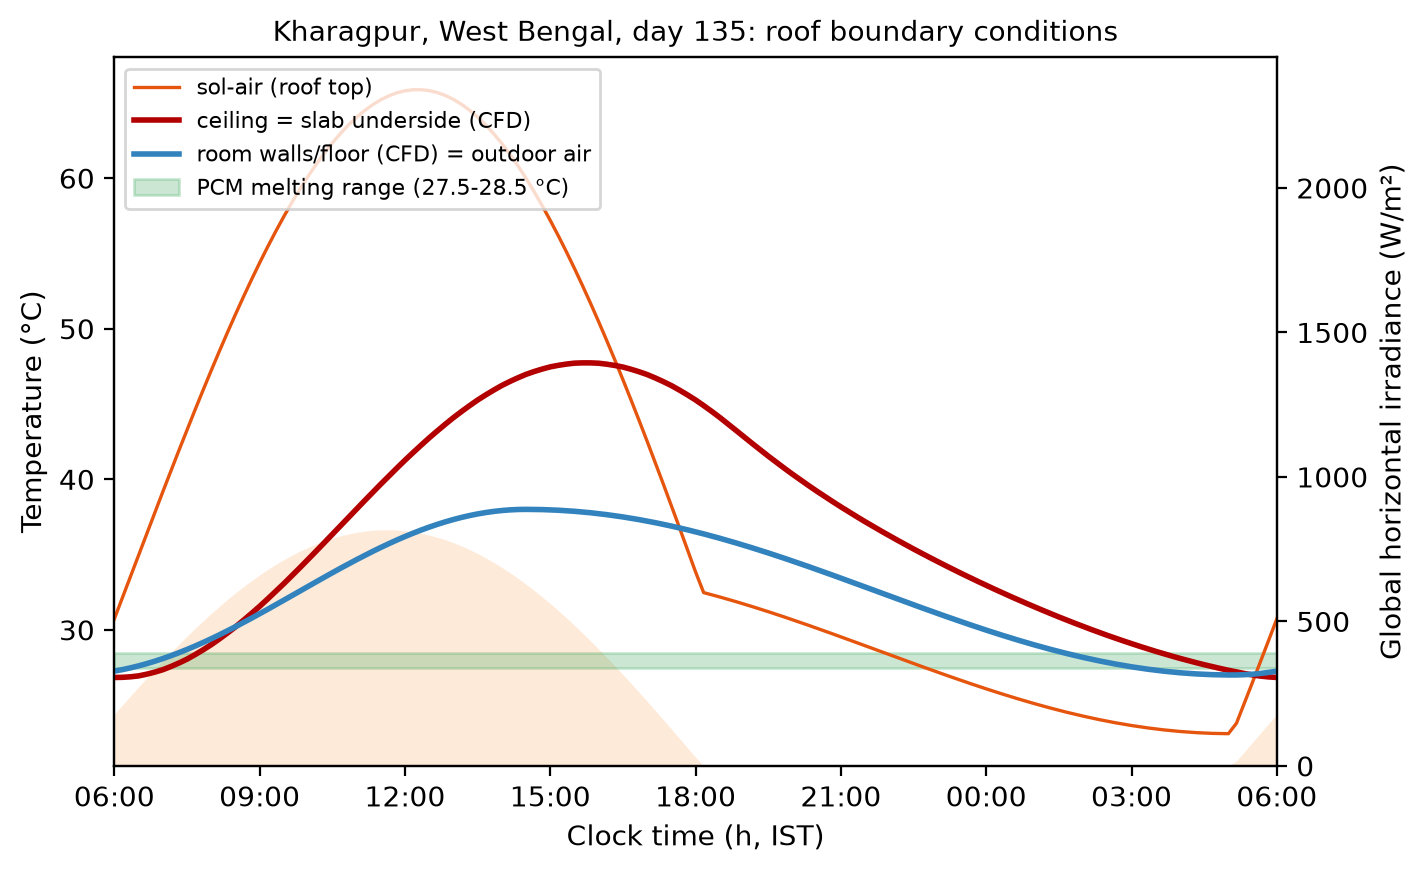
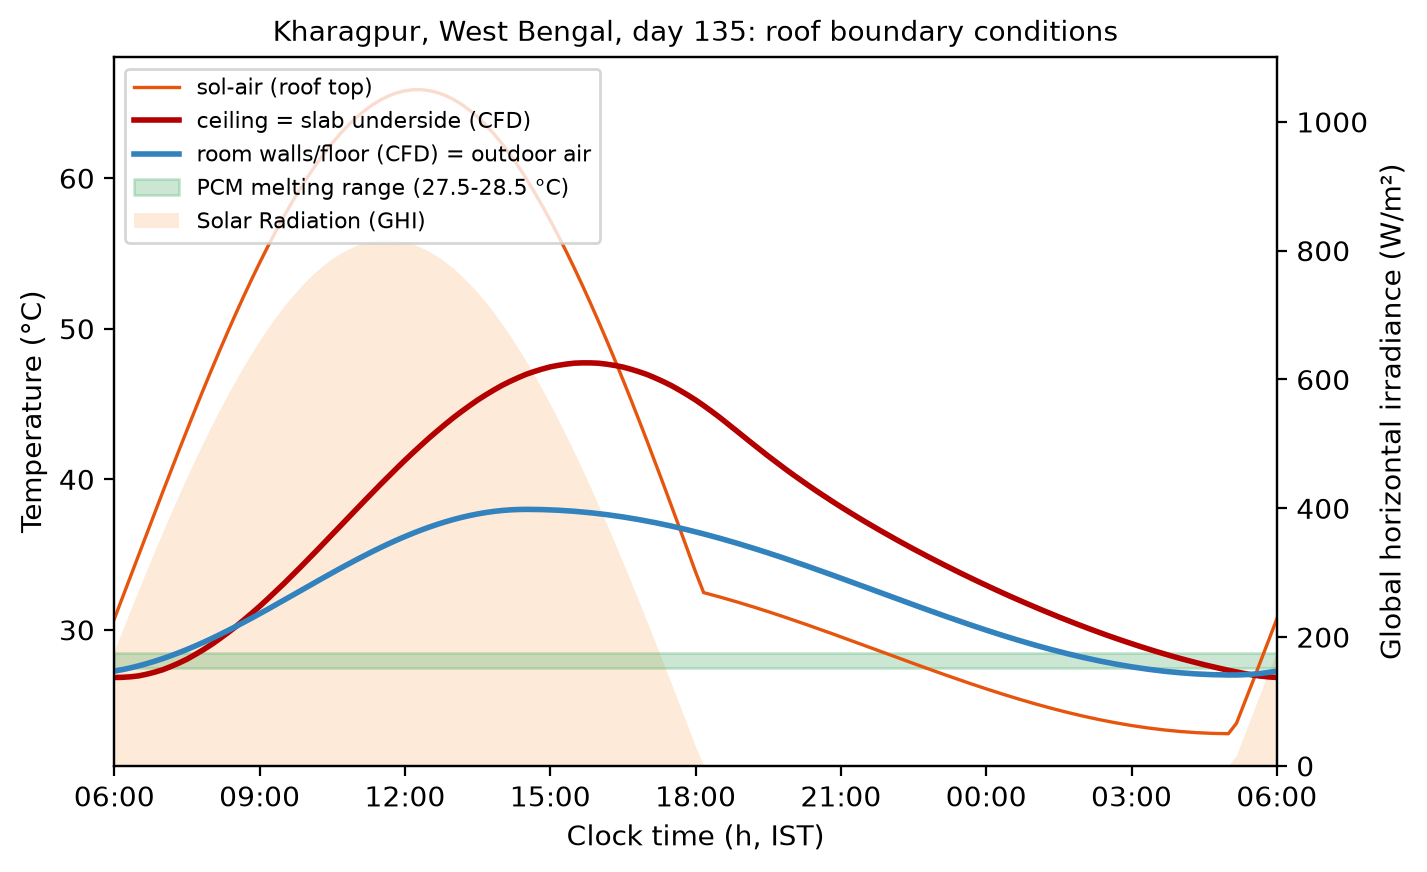
plots: GHI axis to 1100 W/m2 with a legend entry; hemisphere in the paper comparison
- loads: the irradiance axis tops out at 1100 W/m2 (extended only if a day's GHI exceeds
  it) instead of 3x the peak, and the GHI fill is labelled "Solar Radiation (GHI)" in the
  shared legend.
- paper comparison: shapes without a paper value (the hemisphere) are plotted with the
  same markers, marked "no paper value" instead of a band and % error; x axis at least
  650 min so the hemisphere's 614 min fits.
- docs/figures: both figures regenerated.

diff --git a/post/plot_results.py b/post/plot_results.py
@@ -264,32 +264,41 @@ def write_curves(rows, outdir):
 
 def fig_paper_comparison(rows, outdir):
     """t80/t100 of the paper set-up (dT = 20 K, no loads) against Sec. 4.1, with the
-    +-10 % band of validation gate 1."""
+    +-10 % band of validation gate 1. A shape the paper did not study (the hemisphere)
+    gets its own markers only, marked "no paper value"."""
     pairs = []
     for r in rows:
-        ref = REF["melting_time_min"].get(r["shape"])
-        if ref is None or r.get("loads") or r.get("delta_T") != 20:
+        if r.get("loads") or r.get("delta_T") != 20:
             continue
+        ref = REF["melting_time_min"].get(r["shape"])
         for key, frac in (("t80", "80 %"), ("t100", "100 %")):
             if r.get(f"{key}_min"):
-                pairs.append((f"{r['shape'].capitalize()}, {frac}", ref[key],
+                pairs.append((f"{r['shape'].capitalize()}, {frac}", ref[key] if ref else None,
                               r[f"{key}_min"], COLOR[r["shape"]]))
-    if not pairs:
+    if not any(p[1] for p in pairs):
         return
     fig, ax = plt.subplots(figsize=(6.4, 0.55 * len(pairs) + 1.3))
+    first = True
     for i, (label, paper, ours, c) in enumerate(pairs):
         y = len(pairs) - 1 - i
+        if paper is None:
+            ax.plot(ours, y, "o", ms=8, color=c, mec="white", mew=1.0)
+            ax.text(ours - 14, y, "no paper value", va="center", ha="right", fontsize=9,
+                    color="#5f6b7a")
+            continue
         ax.fill_betweenx([y - 0.3, y + 0.3], 0.9 * paper, 1.1 * paper, color="#d9d9d9", lw=0,
-                         label="paper ± 10 %" if i == 0 else None)
+                         label="paper ± 10 %" if first else None)
         ax.plot([paper, ours], [y, y], color=c, lw=1.2)
         ax.plot(paper, y, "o", ms=8, mfc="white", mec="k", mew=1.2,
-                label="Yang et al. 2023" if i == 0 else None)
+                label="Yang et al. 2023" if first else None)
         ax.plot(ours, y, "o", ms=8, color=c, mec="white", mew=1.0)
         ax.text(max(paper, ours) * 1.02 + 4, y,
                 f"{100 * (ours / paper - 1):+.1f} %".replace("-", "−"), va="center", fontsize=9)
+        first = False
     ax.set_yticks(range(len(pairs)), [p[0] for p in reversed(pairs)])
     ax.set_xlabel("Time to 80 % / 100 % liquid (min)")
-    ax.set_xlim(0, max(max(p[1:3]) for p in pairs) * 1.18)
+    # at least 650 min, so the hemisphere's 614 min fits; room for the % labels
+    ax.set_xlim(0, max(650.0, *(max(p[1], p[2]) * 1.18 if p[1] else p[2] * 1.05 for p in pairs)))
     ax.set_ylim(-0.6, len(pairs) - 0.4)
     ax.plot([], [], "o", ms=8, color="#7f7f7f", mec="white", label="this run (filled, by shape)")
     ax.legend(fontsize=8, loc="lower left", bbox_to_anchor=(0, 1.0), ncol=3)

diff --git a/pcmpipe/loads.py b/pcmpipe/loads.py
@@ -198,12 +198,16 @@ def write_profile(case: dict, out_dir: str, root: str = ".") -> dict:
     ax.set_xticks(ticks, [f"{int(x) % 24:02d}:00" for x in ticks])
     ax.set_xlim(h[0], h[-1])
     ax2 = ax.twinx()
-    ax2.fill_between(h, p["I_global_W_m2"], color="#fdae6b", alpha=0.25, lw=0)
+    ax2.fill_between(h, p["I_global_W_m2"], color="#fdae6b", alpha=0.25, lw=0,
+                     label="Solar Radiation (GHI)")
     ax2.set_ylabel("Global horizontal irradiance (W/m²)")
-    ax2.set_ylim(0, 3.0 * max(1.0, p["I_global_W_m2"].max()))
+    # 1100 W/m² tops a clear-sky GHI; only a stronger input day extends the axis
+    ax2.set_ylim(0, max(1100.0, 1.05 * p["I_global_W_m2"].max()))
     ax.set_zorder(ax2.get_zorder() + 1)
     ax.patch.set_visible(False)
-    ax.legend(fontsize=8, loc="upper left")
+    lines, labels = ax.get_legend_handles_labels()
+    fills, fill_labels = ax2.get_legend_handles_labels()
+    ax.legend(lines + fills, labels + fill_labels, fontsize=8, loc="upper left")
     ax.set_title(f"{spec['location']['name']}, day {spec['day_of_year']}: roof boundary conditions",
                  fontsize=10)
     fig.savefig(os.path.join(out_dir, "loads_profile.png"), dpi=200, bbox_inches="tight")
